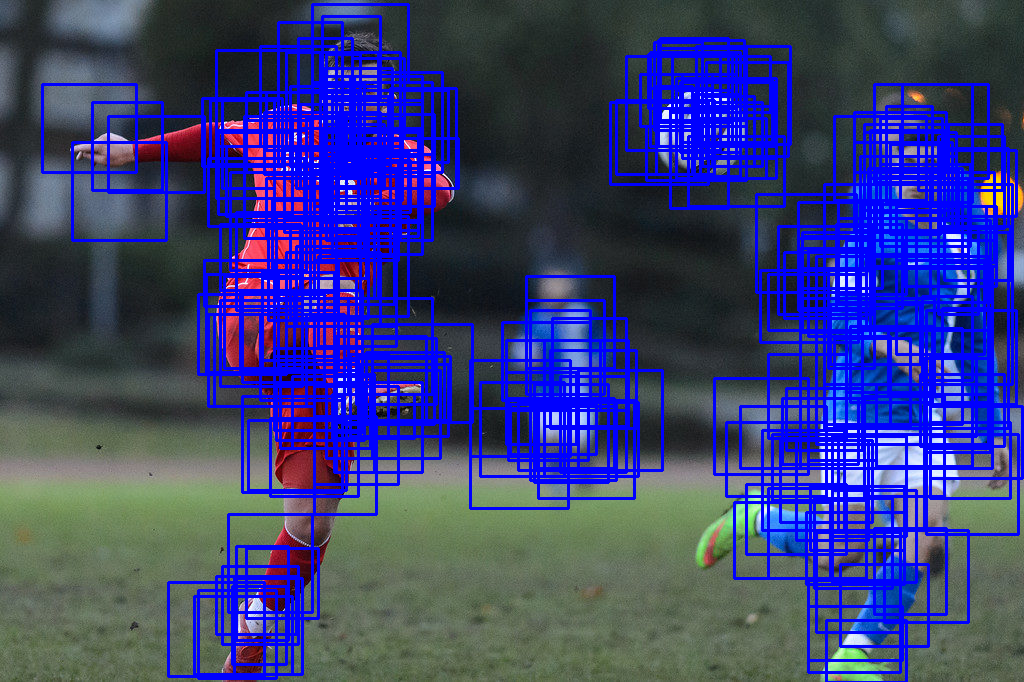
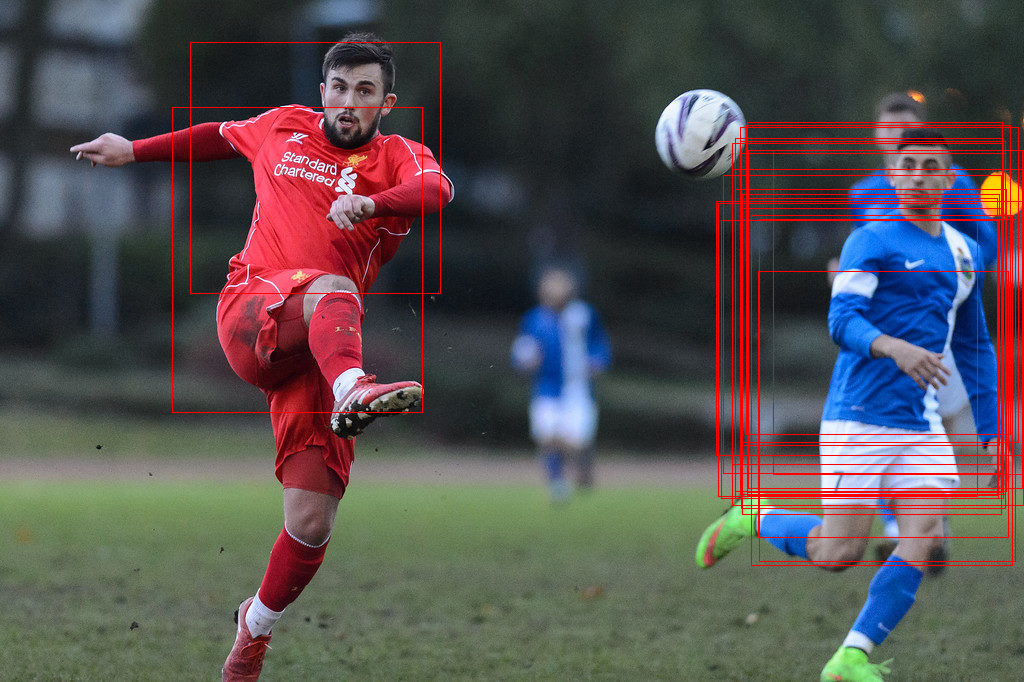
structure code

Changed region(s): [[0.0312, 0.0, 0.6562, 1.0], [0.5938, 0.0308, 1.0, 1.0]]

diff --git a/ransac_bounding_boxes.py b/ransac_bounding_boxes.py
@@ -8,6 +8,7 @@ import cv2
 import argparse
 import sys
 import math
+import random
 
 ##########################################################################
 
@@ -16,10 +17,77 @@ from saliencyDoG import SaliencyDoG
 ##########################################################################
 
 
-if __name__ == "__main__":
+def ransac_bounding_boxes(img, min_box=250, threashold=28, samples=100000,
+                          box_colour=(0,0,255), box_line_thickness=1):
 
-    keep_processing = True
-    toggle_saliency = True
+    # read in an image, generate it's saliency map and place bounding
+    # boxes
+
+    # min_box = minimum dimension of either side of box
+    # threashold = saliency density (saliency per pixel)
+    # samples = number of random samples to take
+    # box_colour = BGR tuple for box outine colour
+    # box_line_thickness = box outline thickness
+
+    # initialize saliency_mapper
+    saliency_mapper = SaliencyDoG()
+
+    # generate saliency map
+    saliency_map = saliency_mapper.generate_saliency(img)
+
+    # generate integral image
+    integral_image = cv2.integral(saliency_map)
+
+    # draw bounding boxes on original image
+    output = img
+
+    for box in range(samples):
+
+        # -1 as indexing starts at 0
+
+        x1 = random.randint(0, (integral_image.shape[1] - 1))
+        y1 = random.randint(0, (integral_image.shape[0] - 1))
+
+        x2 = random.randint(0, (integral_image.shape[1] - 1))
+        y2 = random.randint(0, (integral_image.shape[0] - 1))
+
+        if abs(x1-x2) < min_box or abs(y1-y2) < min_box:
+
+            continue
+
+        else:
+
+            # define points a,b,c,d in integral image to calculate
+            # saliency in box
+
+            xa = min(x1, x2)
+            ya = min(y1, y2)
+
+            xb = max(x1, x2)
+            yb = min(y1, y2)
+
+            xc = min(x1, x2)
+            yc = max(y1, y2)
+
+            xd = max(x1, x2)
+            yd = max(y1, y2)
+
+
+            box_saliency = (integral_image[yd][xd] - integral_image[yb][xb] -
+                    integral_image[yc][xc] + integral_image[ya][xa])
+
+            box_saliency_density = box_saliency / (abs(x1-x2) * abs(y1-y2))
+
+            if box_saliency_density > threashold:
+
+                output = cv2.rectangle(output, (x1, y1), (x2, y2),
+                                       box_colour, box_line_thickness)
+
+    return output
+
+##########################################################################
+
+if __name__ == "__main__":
 
     # parse command line arguments for camera ID or video file
 
@@ -37,64 +105,12 @@ if __name__ == "__main__":
 
     ##########################################################################
 
-    import random
-
-    # initialize saliency_mapper
-    saliency_mapper = SaliencyDoG()
 
     # read in image
     img = cv2.imread(args.image_file)
 
-    # generate saliency map
-    saliency_map = saliency_mapper.generate_saliency(img)
-
-    minimum_box = 5
-    maximum_box = 50
-    threashold = 20000
-
-    output = img
-
-    for scale in range(1, 4):
-
-        saliency_map_scaled = cv2.resize(saliency_map, (saliency_map.shape[1]//(2**scale), saliency_map.shape[0]//(2**scale)))
-
-        integral_image = cv2.integral(saliency_map_scaled)
-
-        for box in range(100000):
-
-            x1 = random.randint(0, (integral_image.shape[1] - 1))
-            y1 = random.randint(0, (integral_image.shape[0] - 1))
-
-            x2 = random.randint(0, (integral_image.shape[1] - 1))
-            y2 = random.randint(0, (integral_image.shape[0] - 1))
-
-            if abs(x1-x2) < minimum_box or abs(y1-y2) < minimum_box or abs(x1-x2) > maximum_box or abs(y1-y2) > maximum_box:
-
-                continue
-
-            else:
-
-
-                xa = min(x1, x2)
-                ya = min(y1, y2)
-
-                xb = max(x1, x2)
-                yb = min(y1, y2)
-
-                xc = min(x1, x2)
-                yc = max(y1, y2)
-
-                xd = max(x1, x2)
-                yd = max(y1, y2)
-
-
-                box_saliency = integral_image[yd][xd] - integral_image[yb][xb] - integral_image[yc][xc] + integral_image[ya][xa]
-
-                if box_saliency > threashold*(2**scale):
-
-                    print(box_saliency)
-                    output = cv2.rectangle(output, (x1*(2**scale), y1*(2**scale)), (x2*(2**scale), y2*(2**scale)), (255, 0, 0), 2)
-
+    # generate bounding boxes
+    output = ransac_bounding_boxes(img)
 
     cv2.imwrite("BoundingBoxes.png", output)
     cv2.waitKey(0)
